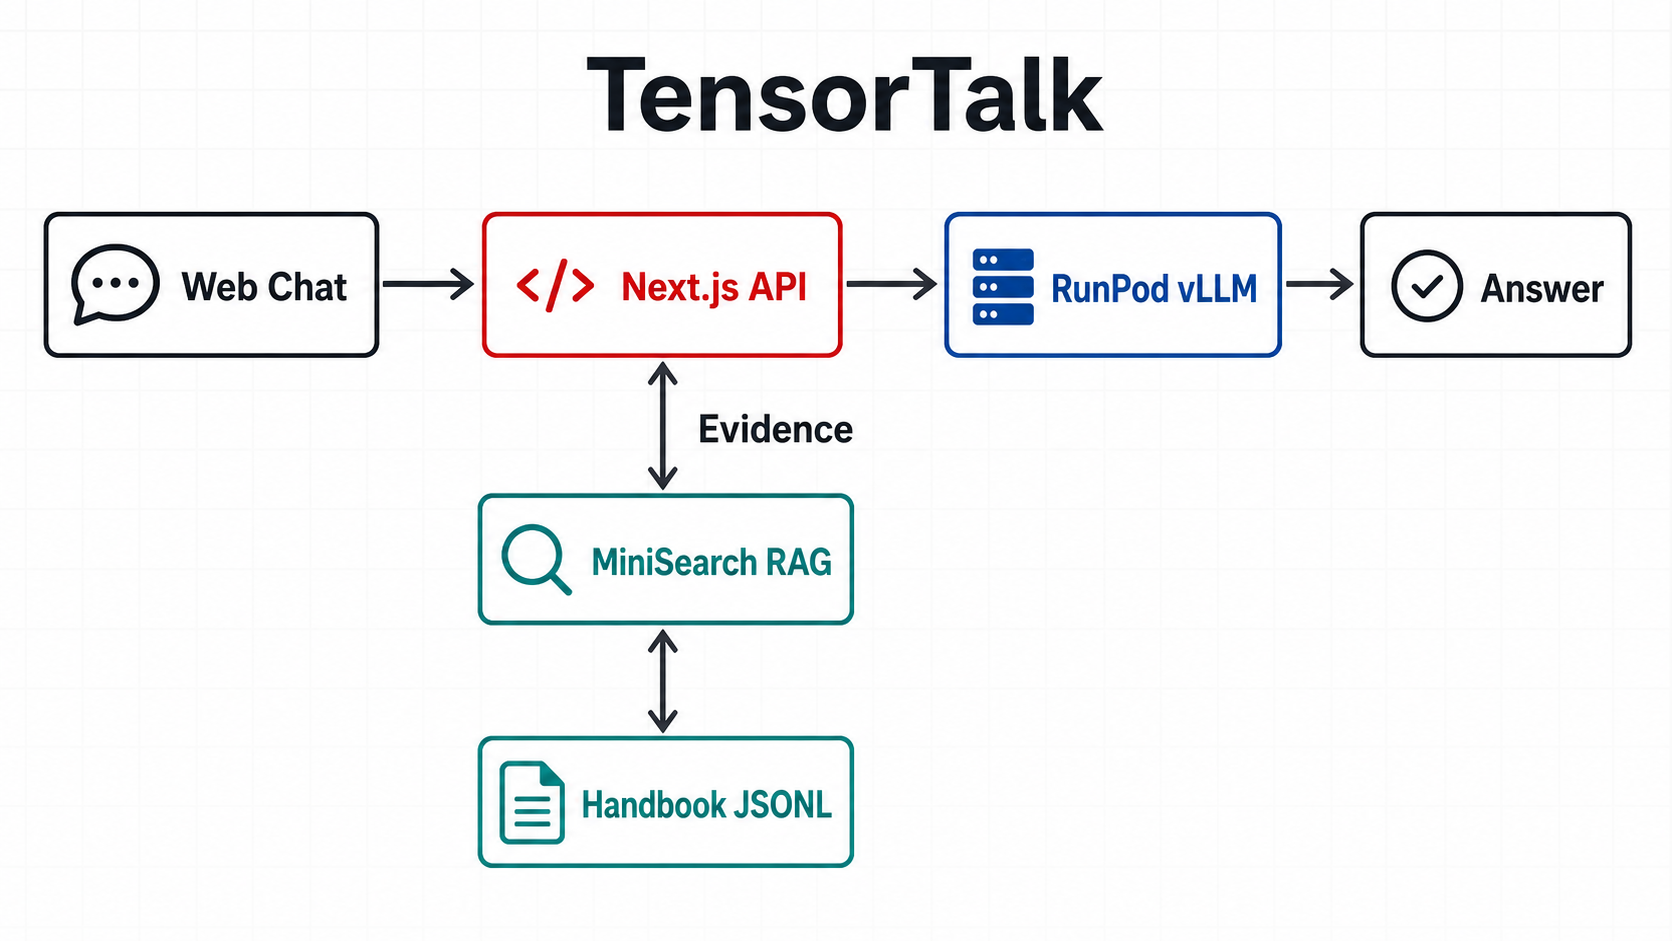
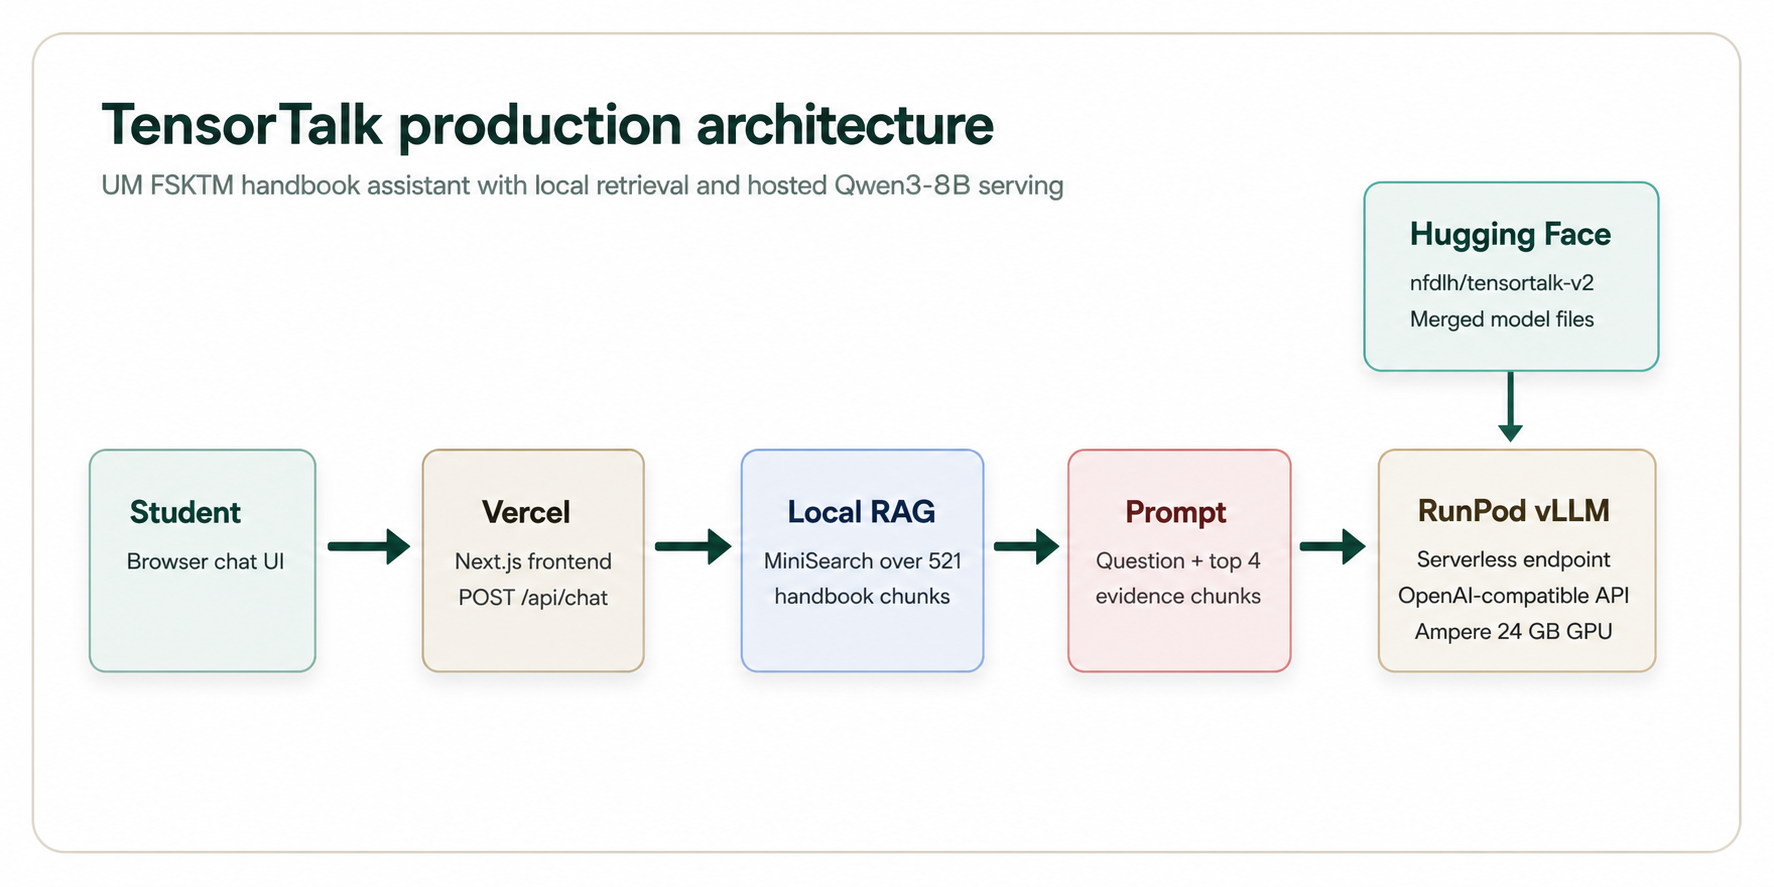
docs: refresh architecture diagram

diff --git a/README.md b/README.md
@@ -2,7 +2,7 @@
 
 Next.js 16 web app for the UM FSKTM handbook assistant.
 
-![TensorTalk architecture](public/tensortalk-architecture.svg)
+![TensorTalk architecture](public/tensortalk-architecture.png)
 
 Model repo: [nfdlh/tensortalk-v2](https://huggingface.co/nfdlh/tensortalk-v2)
 
